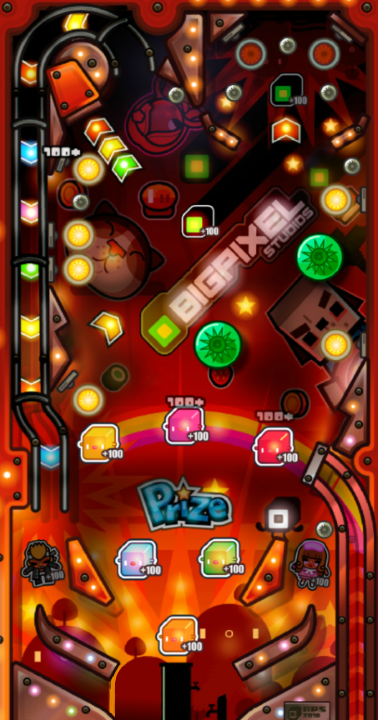
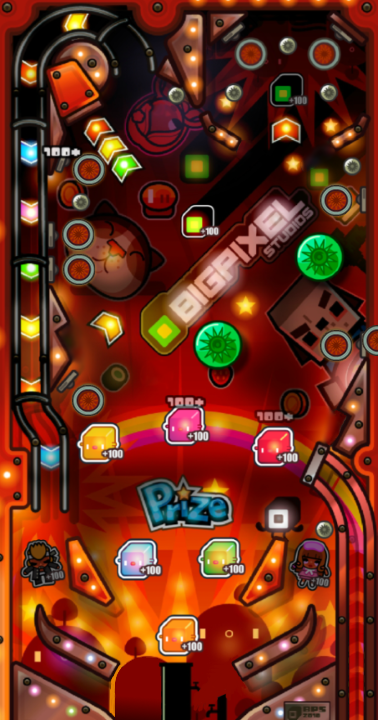
Interactive lights structure created

diff --git a/Physics2_class_4_handout/ModulePhysics.cpp b/Physics2_class_4_handout/ModulePhysics.cpp
@@ -123,9 +123,9 @@ Target * ModulePhysics::CreateTarget(int x, int y, int width, int height, float3
 	target->on = false;
 	target->texture_off = App->textures->Load("pinball/targettextureoff.png");
 	target->texture_on = App->textures->Load("pinball/targettextureon.png");
-	target->pbody = CreateRectangleSensor(x, y, width, height);
-	target->pbody->type = TARGET;
-	target->pbody->body->SetTransform(target->pbody->body->GetPosition(), angle);
+	target = (Target*)CreateRectangleSensor(x, y, width, height);
+	target->type = TARGET;
+	target->body->SetTransform(target->body->GetPosition(), angle);
 	
 	return target;
 }
@@ -179,6 +179,7 @@ PhysBody* ModulePhysics::CreateChain(int x, int y, int* points, int size, b2Body
 
 	b2FixtureDef fixture;
 	fixture.shape = &shape;
+	fixture.restitution = 0.85f;
 
 	b->CreateFixture(&fixture);
 
@@ -245,10 +246,7 @@ PhysBody * ModulePhysics::CreateLauncher(int x, int y, int width, int height, in
 
 PhysBody * ModulePhysics::CreateBumper(int x, int y, int radius)
 {
-	/*PhysBody* bumper = CreateCircle(x, y, radius);
-	bumper->body->SetType(b2_staticBody);
-	bumper->type = BUMPER;
-	return bumper;*/
+
 	b2BodyDef body;
 	body.type = b2_staticBody;
 	body.position.Set(PIXEL_TO_METERS(x), PIXEL_TO_METERS(y));
@@ -262,7 +260,7 @@ PhysBody * ModulePhysics::CreateBumper(int x, int y, int radius)
 	fixture.shape = &shape;
 	fixture.density = 1.0f;
 	fixture.friction = 0.0f;
-	fixture.restitution = 0.85f;
+	fixture.restitution = 0.75f;
 
 	b->CreateFixture(&fixture);
 	PhysBody* pbody = new PhysBody;

diff --git a/Physics2_class_4_handout/ModuleMainScene.cpp b/Physics2_class_4_handout/ModuleMainScene.cpp
@@ -241,7 +241,18 @@ void ModuleMainScene::OnCollision(PhysBody* bodyA, PhysBody* bodyB, b2Contact* c
 		score += 100;
 		break;
 	case TARGET: App->audio->PlayFx(target_fx);
-		score += 100; break;
+		Target* bTarget;
+		score += 100;
+		b2Vec2 aux;
+		aux = bodyB->body->GetPosition();
+		int index;
+		if (aux > {-1, -1})
+		{
+		
+		}
+		lights[index] = true;
+		
+		break;
 	case BONUS: App->audio->PlayFx(bonus_fx); 
 		score += 100; break;
 	default: break;

diff --git a/Physics2_class_4_handout/ModulePhysics.h b/Physics2_class_4_handout/ModulePhysics.h
@@ -33,9 +33,8 @@ public:
 	Module* listener;
 };
 
-struct Target
+struct Target:public PhysBody
 {
-	PhysBody* pbody;
 	bool on;
 	SDL_Texture* texture_on;
 	SDL_Texture* texture_off;

diff --git a/Physics2_class_4_handout/ModuleMainScene.h b/Physics2_class_4_handout/ModuleMainScene.h
@@ -31,6 +31,7 @@ public:
 	void Draw();
 	void UpdateGameOver();
 	void SpawnBall();
+	bool lights[8];
 
 public:
 	p2List<PhysBody*> balls;
